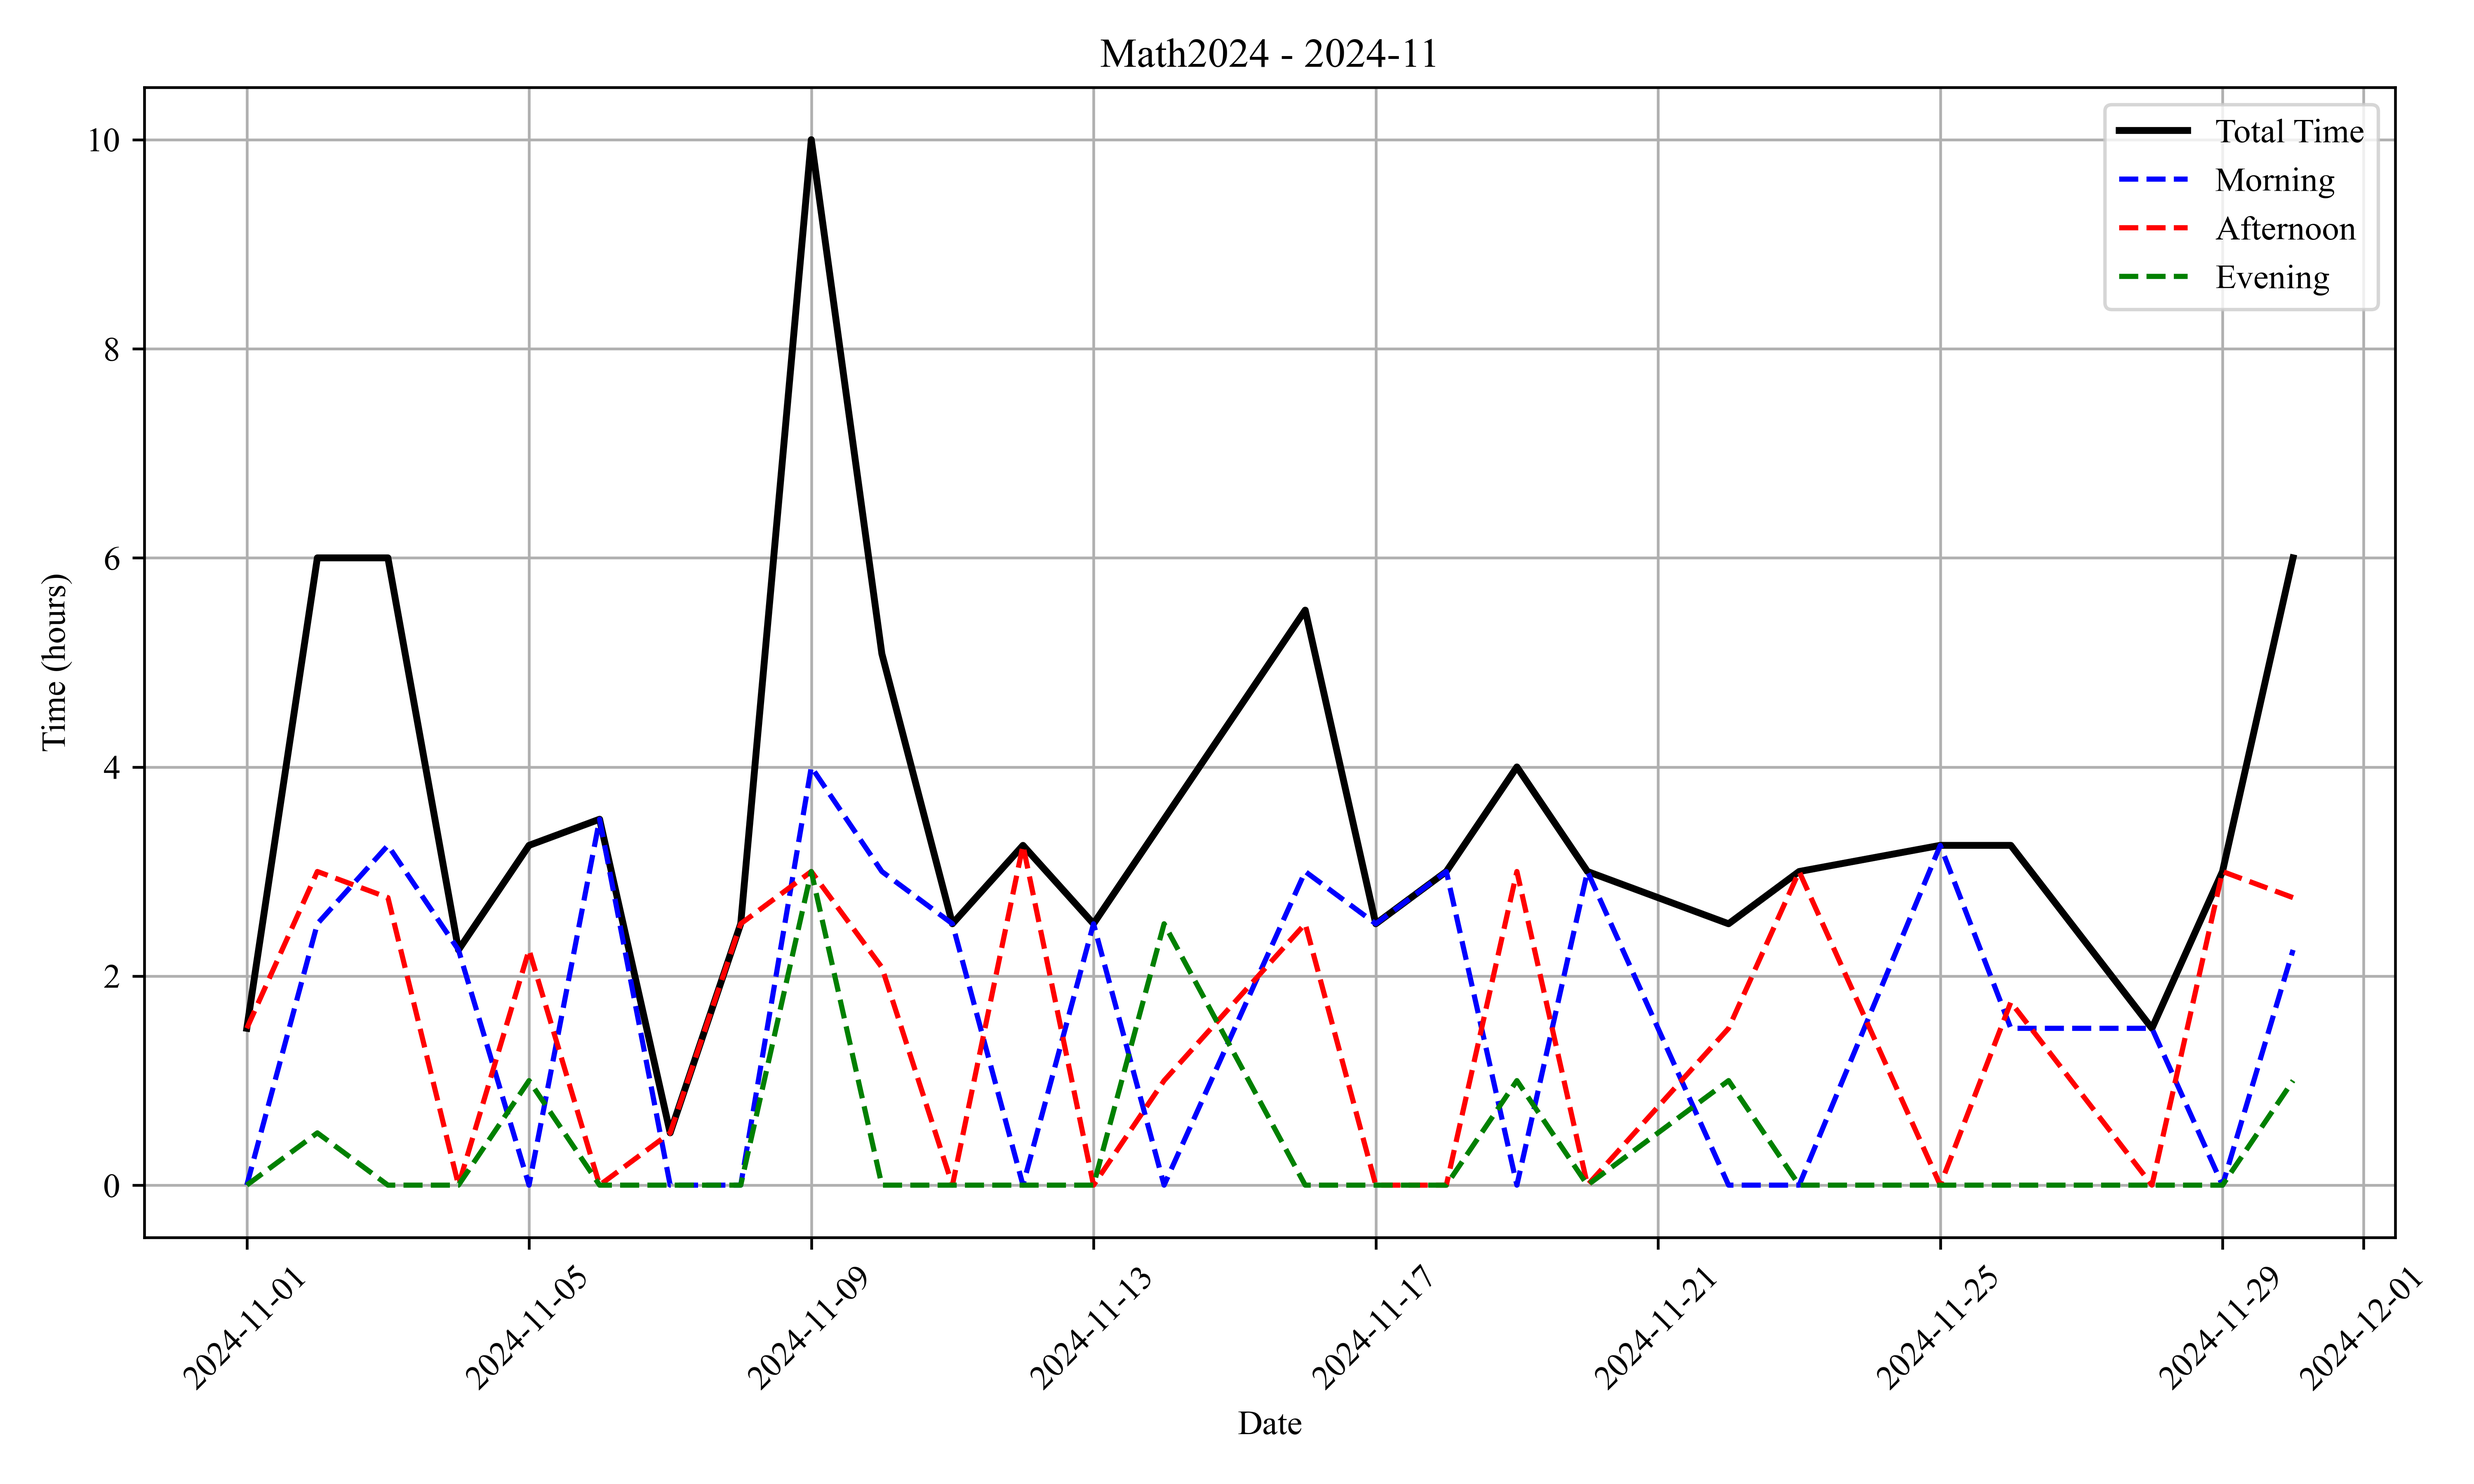
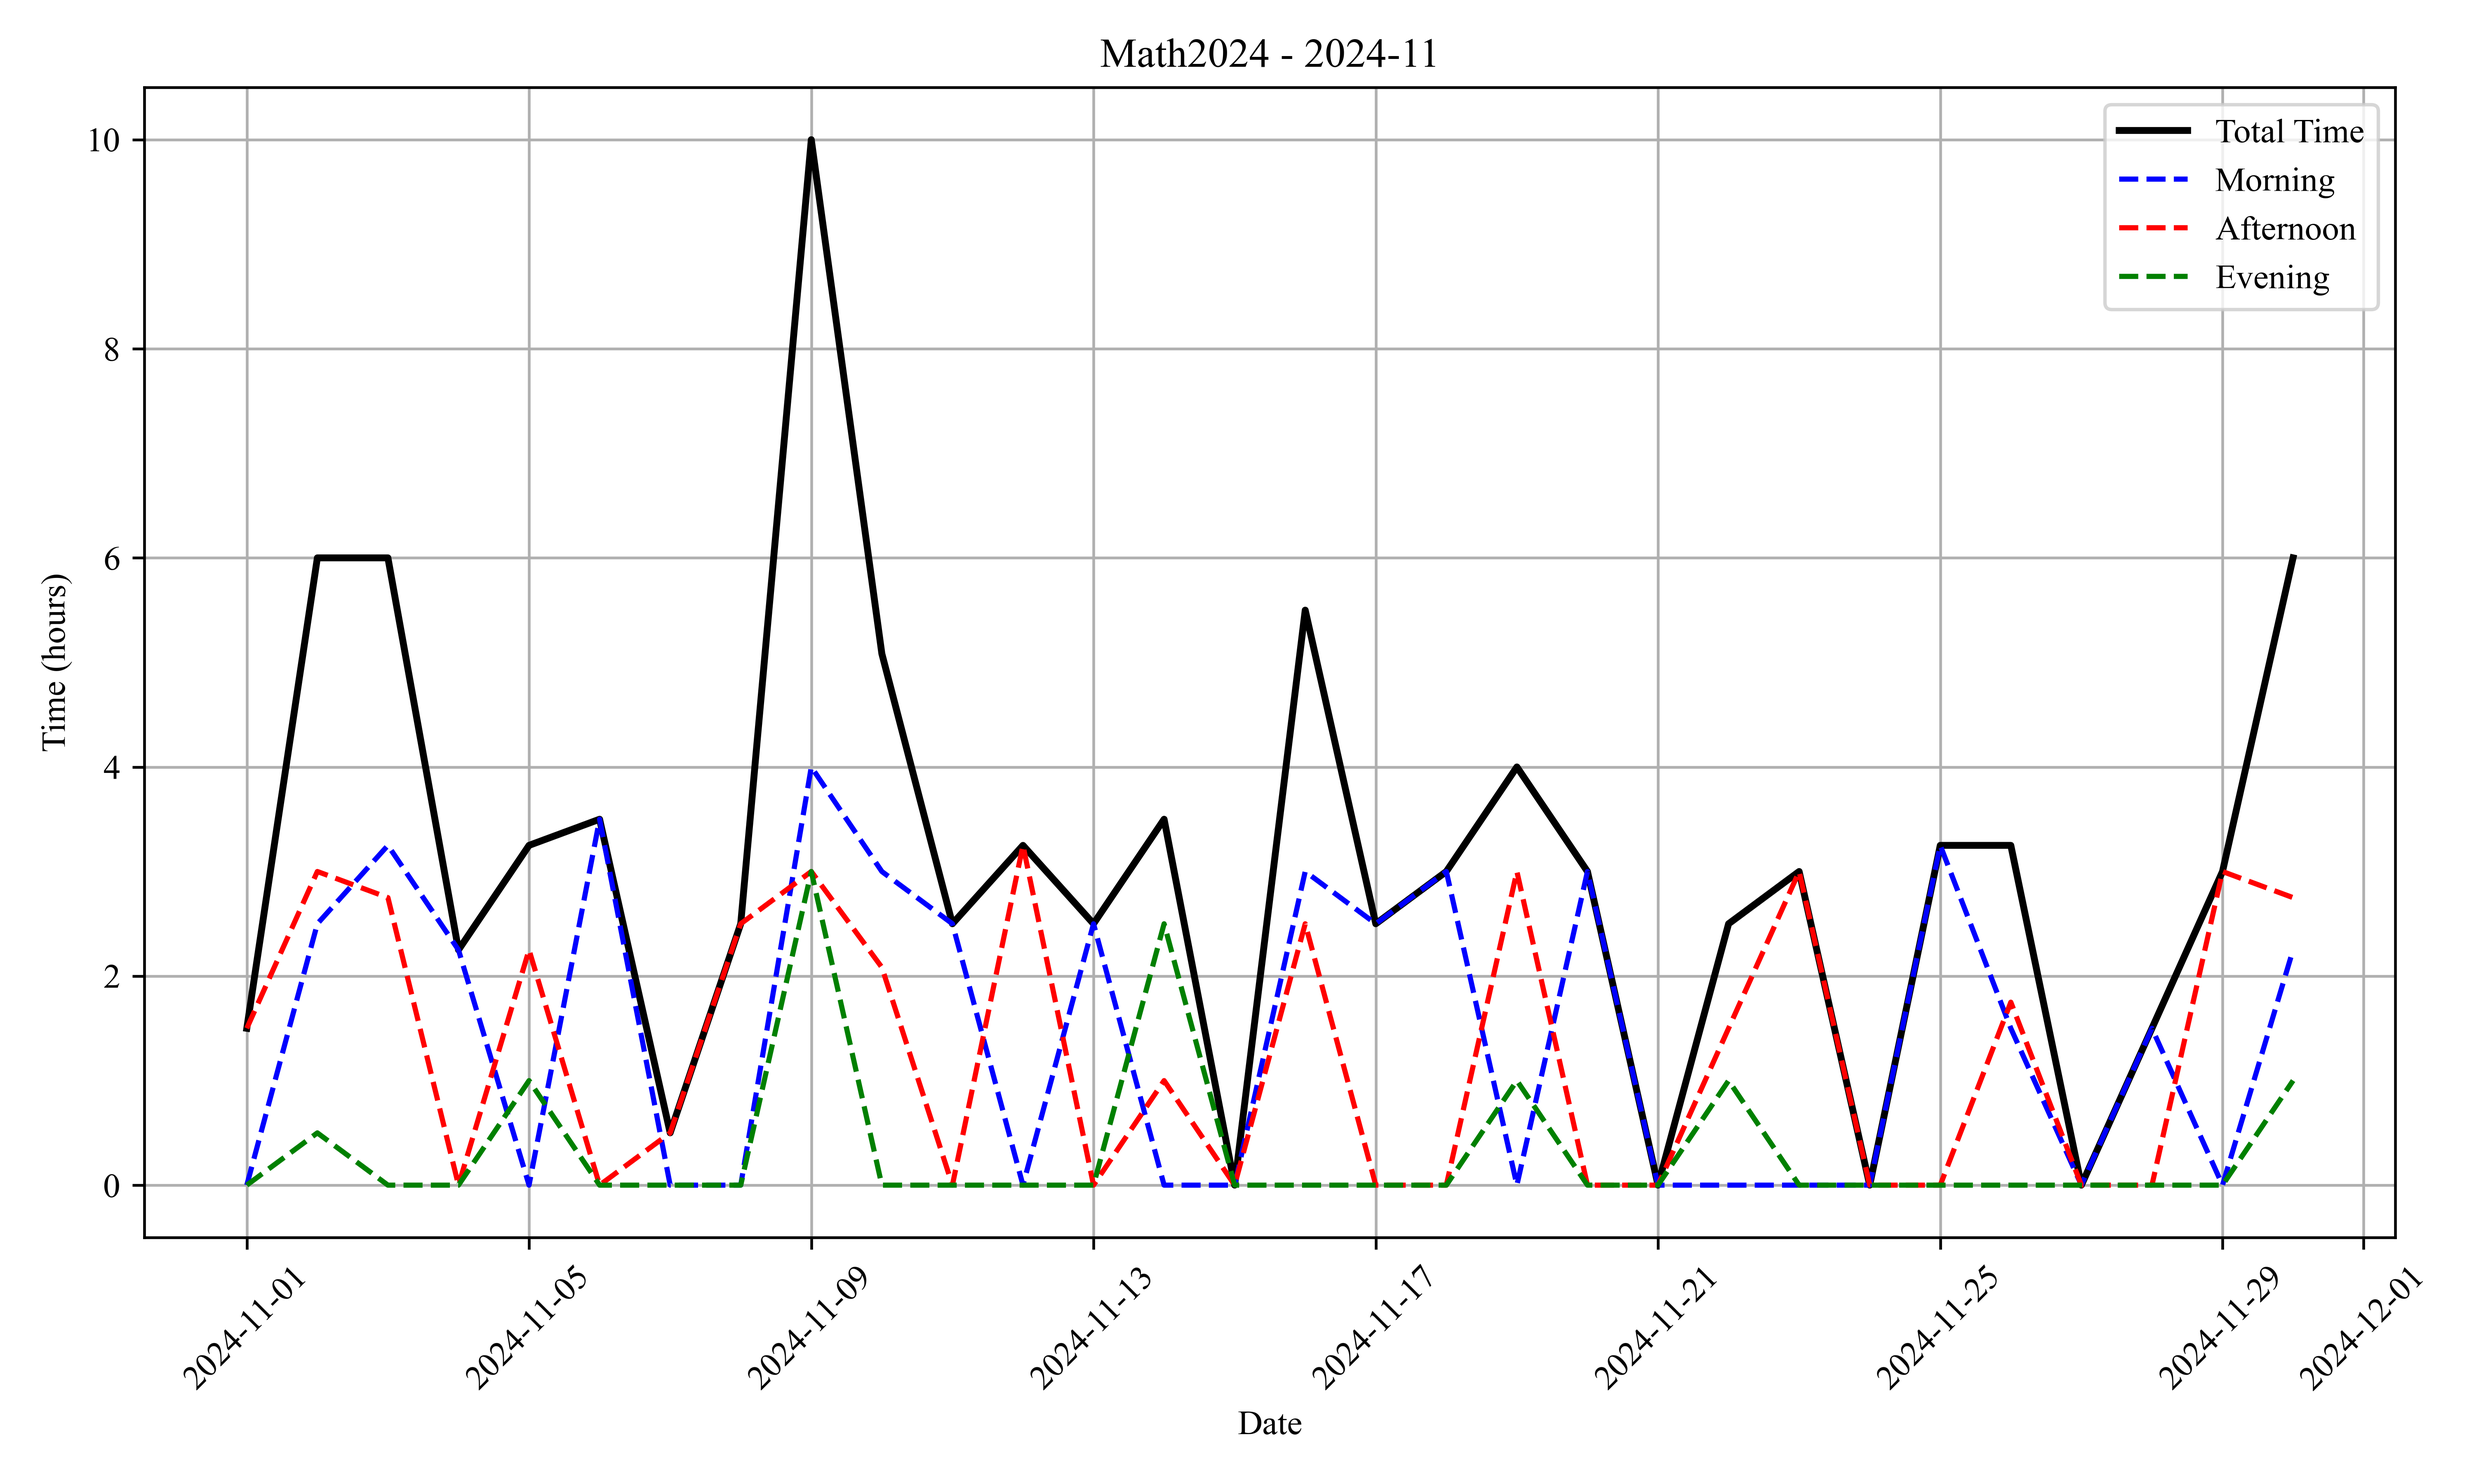
更新缺失值日期处理

diff --git a/py/R_study_time.py b/py/R_study_time.py
@@ -2,6 +2,7 @@ import pandas as pd
 import matplotlib.pyplot as plt
 import os
 import seaborn as sns
+from sklearn.linear_model import LinearRegression
 
 
 class StudyTimePlotter:
@@ -14,6 +15,7 @@ class StudyTimePlotter:
         self.file_name = os.path.basename(file_path)
         print(f"读取文件：{self.file_name}")
 
+        self._init_df()
         self._init_subject()
 
         self.df['日期'] = pd.to_datetime(self.df['日期'])  # 将日期列转换为日期时间格式
@@ -25,6 +27,41 @@ class StudyTimePlotter:
         self.df['Month'] = self.df['日期'].dt.month
         self.df['Week'] = self.df['日期'].dt.isocalendar().week  # 获取ISO周编号
         self.df['Weekday'] = self.df['日期'].dt.weekday + 1  # 0 = Monday, 6 = Sunday (调整为1-7，方便映射)
+
+    # 初始化数据
+    def _init_df(self):
+        # 确保日期列是日期格式
+        df = self.df.copy()
+        df['日期'] = pd.to_datetime(df['日期'])
+
+        # 获取最小和最大日期
+        min_date = df['日期'].min()
+        max_date = df['日期'].max()
+
+        # 生成完整的日期范围
+        all_dates = pd.date_range(min_date, max_date, freq='D')
+
+        # 创建一个新的DataFrame，包含所有日期
+        complete_df = pd.DataFrame({'日期': all_dates})
+
+        # 合并原始数据和完整的日期数据，然后按日期排序
+        merged_df = pd.merge(complete_df, df, on='日期', how='left')
+        merged_df = merged_df.sort_values(by='日期')
+
+        # 填充缺失值
+        merged_df['总时长'] = merged_df['总时长'].fillna(0)
+        merged_df['时间段'] = merged_df['时间段'].fillna('')
+        merged_df['上午'] = merged_df['上午'].fillna(0)
+        merged_df['下午'] = merged_df['下午'].fillna(0)
+        merged_df['晚上'] = merged_df['晚上'].fillna(0)
+        merged_df['备注'] = merged_df['备注'].fillna('')
+
+        # 删除重复的日期行
+        merged_df = merged_df.drop_duplicates(subset='日期', keep='first')
+
+        self.df = merged_df
+        # # 查看第70-80行
+        # print(self.df.iloc[65:72])
 
     # 初始化科目名称
     def _init_subject(self):
@@ -47,15 +84,27 @@ class StudyTimePlotter:
 
     # 绘制总时长折线图
     def plot_total_study_time(self):
+        # 对总时长进行线性回归，然后绘制到图像上
+        X = self.df.index.values.reshape(-1, 1)
+        y = self.df['总时长'].values
+        lr = LinearRegression()
+        lr.fit(X, y)
+        # 提取回归直线的斜率和截距
+        k = lr.coef_[0]
+        b = lr.intercept_
         # 绘制总时长的折线图
         plt.figure(figsize=(10, 6))
         plt.plot(self.df['日期'], self.df['总时长'], label='Total Study Time', color='black',
                  linestyle='-', linewidth=2)
+        # 绘制回归直线
+        plt.plot(self.df['日期'], k * X + b, label=f'Linear Fit: y={k:.2f}x+{b:.2f}', color='green',
+                 linestyle='--', linewidth=2)
         plt.xlabel('Date')
         plt.ylabel('Total Time (hours)')
         plt.title(f'{self.subject} - Total Study Time')
         plt.xticks(rotation=45)
         plt.grid(True)
+        plt.legend()
 
         # 保存图像
         plt.tight_layout()
@@ -175,7 +224,7 @@ class StudyTimePlotter:
 
 # 使用示例
 if __name__ == "__main__":
-    file_path = '../data/xlsx/P-学习时长-数学2024.xlsx'  # 示例路径
+    file_path = '../data/xlsx/P-学习时长-数学2024.xlsx'
     plotter = StudyTimePlotter(file_path)
 
     plotter.plot_total_study_time()  # 绘制总时长图
